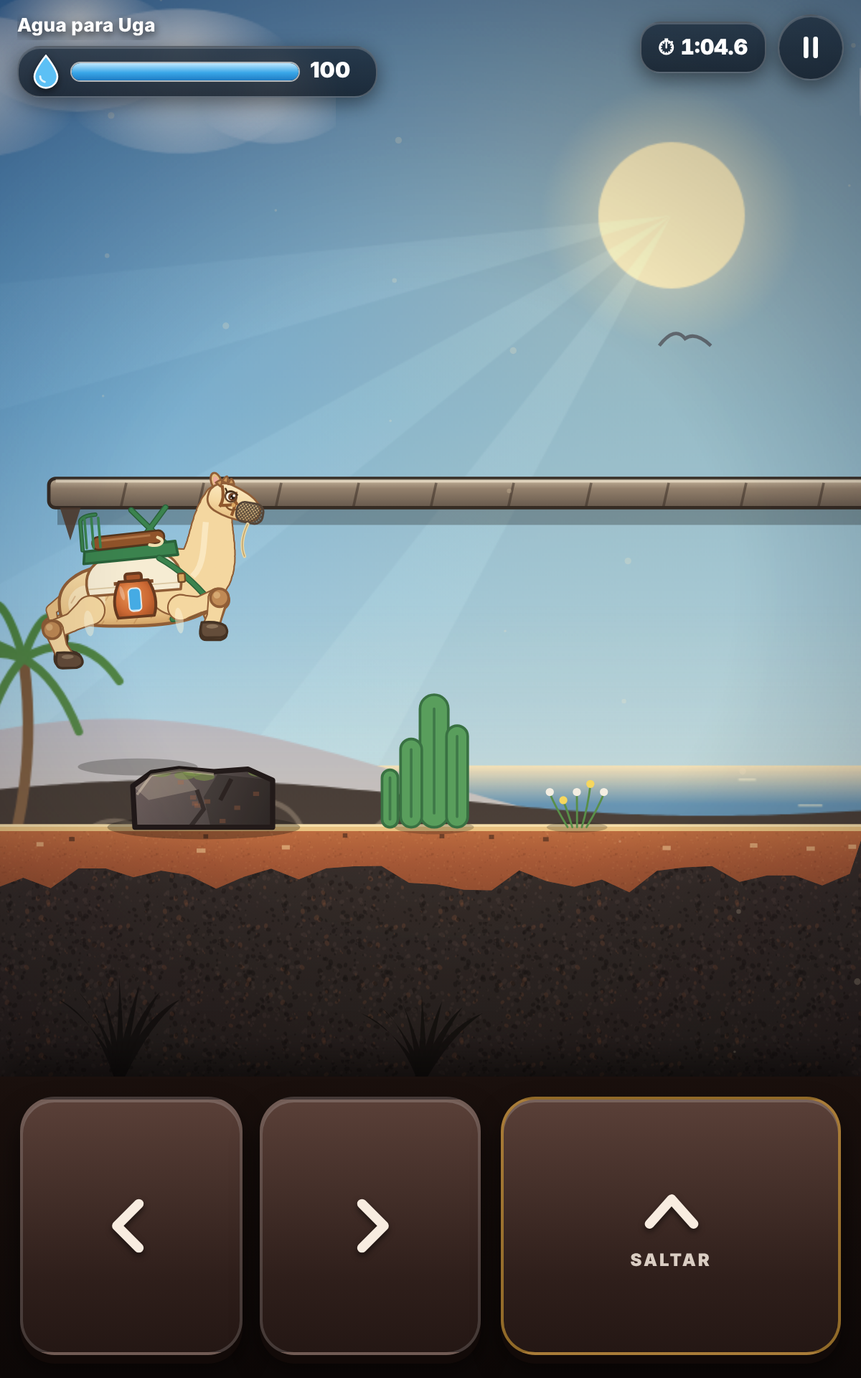
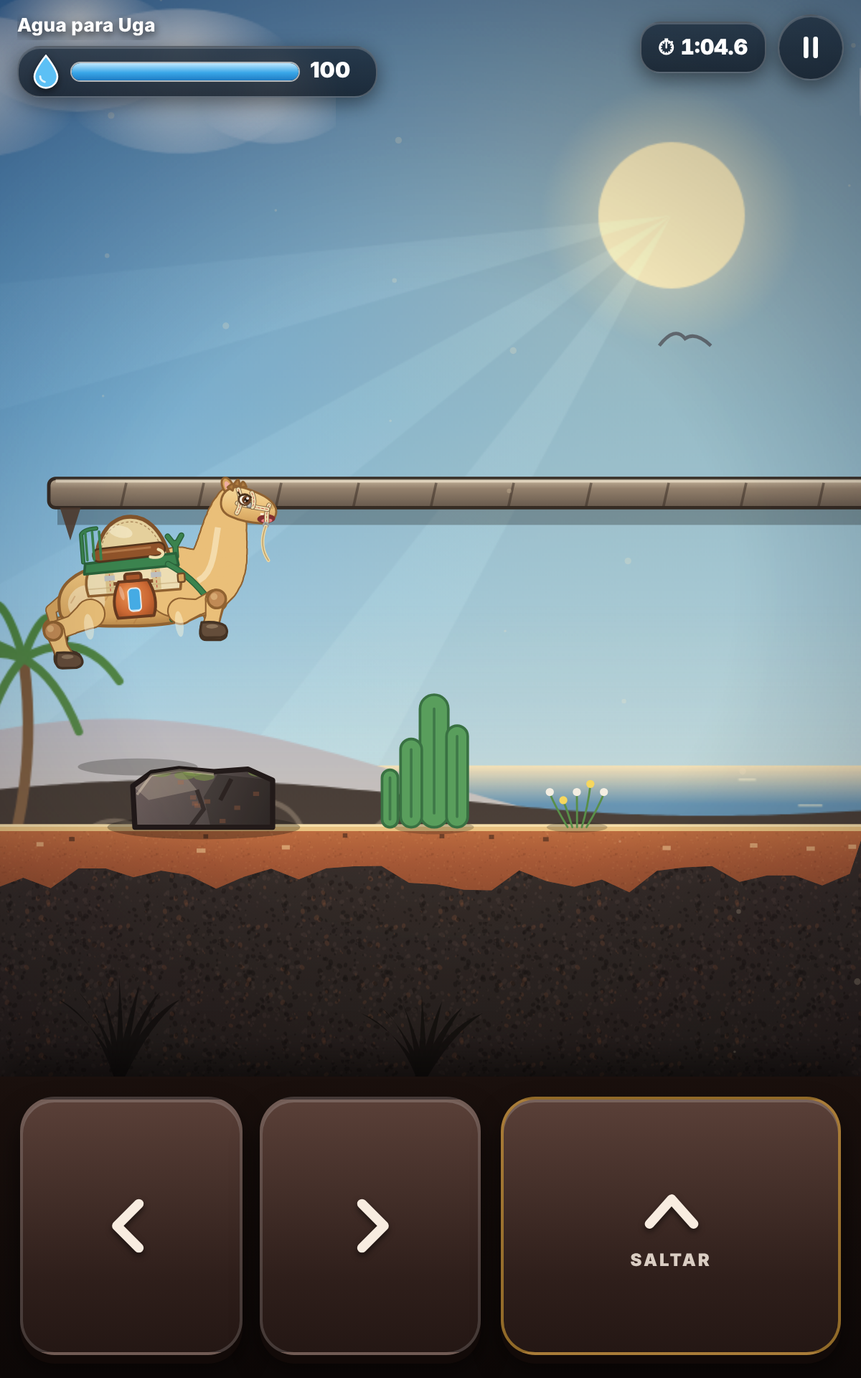
1.7.1: Martín más cercano a la ilustración final (pelaje dorado, cabezada de lona con costuras, boca abierta, funda de lona en la joroba, correas de lona, joroba visible y cuello grueso)
Claude-Session: https://claude.ai/code/session_01H2Jf8v1MHtV6zTpVoU4WWj

Changed region(s): [[0.0308, 0.3438, 0.3392, 0.4688]]

diff --git a/docs/app/dibujo.js b/docs/app/dibujo.js
@@ -87,7 +87,7 @@
   function suelo(L, x, y) { let best = L.world.kill_y; for (const s of L.solids) if (s.kind !== 'oneway' && s.x0 <= x && s.x1 >= x && s.top <= y + 0.05 && s.top > best) best = s.top; return best; }
 
   /* ================== MARTÍN ================== */
-  const PEL = { luz: '#fcebc4', claro: '#f4d6a0', medio: '#e6bd80', sombra: '#c99358', osc: '#8a5a2c', borde: '#8a5630', hocico: '#f8e3b8' };
+  const PEL = { luz: '#f6d99c', claro: '#e9bd76', medio: '#d3a05a', sombra: '#a8743a', osc: '#7a4a24', borde: '#8a5a2a', hocico: '#f2d9a6' };
 
   /* Trazo cónico (muslo, caña, cuello): primero el contorno, luego el relleno, para que no se vean costuras */
   function conico(ctx, pts, ws, fill, borde, lw) {
@@ -105,7 +105,7 @@
 
   /* Pata de dibujo animado: muslo grueso, rodilla redonda de callo marrón, caña y pezuña grande oscura. sg = lado en que dobla la rodilla */
   function pata(ctx, hx, hy, fx, fy, sg, cerca, anchoMuslo) {
-    const a = 0.46, b = 0.44, dx = fx - hx, dy = fy - hy, dd = Math.hypot(dx, dy) || 1, d = Math.min(dd, a + b - 0.004);
+    const a = 0.44, b = 0.42, dx = fx - hx, dy = fy - hy, dd = Math.hypot(dx, dy) || 1, d = Math.min(dd, a + b - 0.004);
     const ux = dx / dd, uy = dy / dd, p = (d * d + a * a - b * b) / (2 * d), h = Math.sqrt(Math.max(0, a * a - p * p));
     const kx = hx + ux * p - uy * h * sg, ky = hy + uy * p + ux * h * sg, ex = hx + ux * d, ey = hy + uy * d;
     const col = cerca ? PEL.claro : PEL.medio;
@@ -136,15 +136,20 @@
     ctx.bezierCurveTo(-0.2, -0.16, -0.24, -0.08, -0.24, 0.0); ctx.closePath(); ctx.fill(); ctx.stroke();
     // mechones de pelo sobre la frente
     ctx.fillStyle = PEL.sombra; for (const [x, y, l, a] of [[-0.12, 0.2, 0.15, -0.5], [-0.03, 0.25, 0.17, -0.2], [0.07, 0.24, 0.14, 0.15]]) { ctx.save(); ctx.translate(x, y); ctx.rotate(a); ctx.beginPath(); ctx.moveTo(-0.045, 0); ctx.quadraticCurveTo(0, l * 1.1, 0.045, 0); ctx.closePath(); ctx.fill(); ctx.stroke(); ctx.restore(); }
-    // bozal de malla
-    ctx.save(); rr(ctx, 0.22, -0.28, 0.4, 0.3, 0.12); ctx.fillStyle = 'rgba(110,80,50,.35)'; ctx.fill(); ctx.clip();
-    ctx.strokeStyle = 'rgba(70,55,45,.9)'; ctx.lineWidth = 0.014; ctx.beginPath(); for (let k = -5; k <= 7; k++) { ctx.moveTo(0.22 + k * 0.05, -0.3); ctx.lineTo(0.22 + k * 0.05 + 0.3, 0.04); ctx.moveTo(0.22 + k * 0.05 + 0.3, -0.3); ctx.lineTo(0.22 + k * 0.05, 0.04); } ctx.stroke(); ctx.restore();
-    ctx.strokeStyle = '#4a3a30'; ctx.lineWidth = 0.028; rr(ctx, 0.22, -0.28, 0.4, 0.3, 0.12); ctx.stroke();
-    // correas de cuero con anilla
-    ctx.strokeStyle = cuero; ctx.lineWidth = 0.045; ctx.beginPath(); ctx.moveTo(0.22, -0.02); ctx.quadraticCurveTo(0.12, -0.08, -0.04, -0.1); ctx.moveTo(0.16, 0.14); ctx.quadraticCurveTo(0.2, -0.05, 0.16, -0.22); ctx.moveTo(-0.06, 0.2); ctx.quadraticCurveTo(0.02, 0.0, -0.04, -0.12); ctx.stroke();
-    ctx.fillStyle = '#d9a35c'; ctx.beginPath(); ctx.arc(0.16, -0.06, 0.03, 0, TAU); ctx.fill();
+    // boca abierta y sonriente con la lengua rosa
+    ctx.fillStyle = '#7a2428'; ctx.beginPath(); ctx.ellipse(0.43, -0.2, 0.13, 0.065, 0.12, 0, TAU); ctx.fill(); ctx.fillStyle = '#e8737c'; ctx.beginPath(); ctx.ellipse(0.44, -0.225, 0.08, 0.03, 0.1, 0, TAU); ctx.fill();
+    ctx.fillStyle = '#fff3dc'; ctx.fillRect(0.34, -0.15, 0.05, 0.03); ctx.fillRect(0.4, -0.145, 0.05, 0.03);
+    ctx.fillStyle = 'rgba(140,90,40,.25)'; ctx.beginPath(); ctx.ellipse(0.5, -0.02, 0.025, 0.035, 0.4, 0, TAU); ctx.fill();   // ollar
+    // cabezada de lona beige con costuras rojas y hebillas
+    const lona = (pts) => { ctx.lineCap = 'round'; ctx.strokeStyle = '#7a5a3a'; ctx.lineWidth = 0.075; ctx.beginPath(); pts(); ctx.stroke(); ctx.strokeStyle = '#ecdcb0'; ctx.lineWidth = 0.056; ctx.beginPath(); pts(); ctx.stroke(); ctx.strokeStyle = '#c0453a'; ctx.lineWidth = 0.01; ctx.setLineDash([0.03, 0.025]); ctx.beginPath(); pts(); ctx.stroke(); ctx.setLineDash([]); };
+    lona(() => { ctx.moveTo(0.46, 0.0); ctx.quadraticCurveTo(0.42, -0.1, 0.44, -0.24); });                 // frontalera del hocico
+    lona(() => { ctx.moveTo(0.44, -0.06); ctx.quadraticCurveTo(0.2, -0.04, 0.0, 0.0); });               // carrillera
+    lona(() => { ctx.moveTo(0.0, 0.2); ctx.quadraticCurveTo(0.08, 0.02, 0.0, -0.14); });              // testera
+    lona(() => { ctx.moveTo(0.2, 0.16); ctx.quadraticCurveTo(0.26, 0.04, 0.22, -0.04); });
+    ctx.fillStyle = '#b9bcc0'; ctx.strokeStyle = '#555'; ctx.lineWidth = 0.012; rr(ctx, 0.14, -0.05, 0.06, 0.07, 0.01); ctx.fill(); ctx.stroke();
+    ctx.strokeStyle = '#9a9ea2'; ctx.lineWidth = 0.025; ctx.beginPath(); ctx.arc(0.43, -0.29, 0.035, 0, TAU); ctx.stroke();
     // cuerda que cuelga del bozal
-    const rs = Math.sin(T * 2.3) * 0.03; ctx.strokeStyle = '#ead6a4'; ctx.lineWidth = 0.05; ctx.lineCap = 'round'; ctx.beginPath(); ctx.moveTo(0.42, -0.3); ctx.quadraticCurveTo(0.34 + rs, -0.6, 0.46 + rs * 2, -0.78); ctx.stroke(); ctx.strokeStyle = '#b89a62'; ctx.lineWidth = 0.014; ctx.stroke();
+    const rs = Math.sin(T * 2.3) * 0.03; ctx.strokeStyle = '#ead6a4'; ctx.lineWidth = 0.05; ctx.lineCap = 'round'; ctx.beginPath(); ctx.moveTo(0.43, -0.31); ctx.quadraticCurveTo(0.34 + rs, -0.6, 0.5 + rs * 2, -0.8); ctx.stroke(); ctx.strokeStyle = '#b89a62'; ctx.lineWidth = 0.014; ctx.stroke();
     // ojo grande y expresivo
     const parp = (Math.sin(T * 0.9) > 0.985) || st.golpe > 0 || st.anim === 'cae';
     if (parp) { ctx.strokeStyle = '#3a2412'; ctx.lineWidth = 0.035; ctx.beginPath(); ctx.arc(0.1, 0.06, 0.06, Math.PI * 1.1, Math.PI * 1.9); ctx.stroke(); }
@@ -154,8 +159,7 @@
       ctx.fillStyle = '#fff'; ctx.beginPath(); ctx.arc(0.142, 0.08, 0.02, 0, TAU); ctx.arc(0.108, 0.035, 0.01, 0, TAU); ctx.fill();
       ctx.strokeStyle = '#3a2412'; ctx.lineWidth = 0.025; ctx.beginPath(); ctx.moveTo(0.02, 0.1); ctx.quadraticCurveTo(0.1, 0.16, 0.19, 0.1); ctx.moveTo(0.03, 0.12); ctx.lineTo(0.0, 0.16); ctx.stroke();
     }
-    // sonrisa
-    ctx.strokeStyle = '#7a4a24'; ctx.lineWidth = 0.025; ctx.beginPath(); ctx.moveTo(0.2, -0.12); ctx.quadraticCurveTo(0.12, -0.16, 0.06, -0.1); ctx.stroke();
+
   }
 
   function dibujaMartin(ctx, u, px, py, st) {
@@ -168,7 +172,7 @@
     const sq = st.golpe > 0 ? 1 - st.golpe * 0.12 : 1, f = clamp(st.agua / 100, 0, 1);
     const cabeceo = anim === 'salta' ? 0.08 : anim === 'cae' ? -0.08 : 0;
     ctx.translate(0, hop); ctx.scale(1 + (1 - sq) * 0.6, sq);
-    const hipY = 0.88 + bob;
+    const hipY = 0.84 + bob;
     const objetivo = (hx, fase, delante) => {
       if (anim === 'salta') return delante ? [hx + 0.34, 0.6] : [hx - 0.3, 0.3];
       if (anim === 'cae') return delante ? [hx + 0.2, 0.12] : [hx - 0.22, 0.1];
@@ -187,8 +191,8 @@
     // cuerpo redondeado
     ctx.beginPath(); ctx.moveTo(-0.9, 1.05 + B);
     ctx.bezierCurveTo(-0.9, 1.3 + B, -0.65, 1.42 + B, -0.4, 1.46 + B);
-    ctx.bezierCurveTo(-0.3, 1.66 + B, -0.1, 1.74 + B, 0.1, 1.7 + B);
-    ctx.bezierCurveTo(0.3, 1.66 + B, 0.36, 1.5 + B, 0.46, 1.46 + B);
+    ctx.bezierCurveTo(-0.44, 1.6 + B, -0.36, 1.94 + B, -0.08, 2.0 + B);
+    ctx.bezierCurveTo(0.2, 2.04 + B, 0.36, 1.8 + B, 0.42, 1.52 + B);
     ctx.bezierCurveTo(0.68, 1.42 + B, 0.92, 1.2 + B, 0.9, 0.98 + B);
     ctx.bezierCurveTo(0.88, 0.76 + B, 0.4, 0.7 + B, -0.1, 0.74 + B);
     ctx.bezierCurveTo(-0.5, 0.76 + B, -0.64, 0.8 + B, -0.76, 0.84 + B);
@@ -206,27 +210,32 @@
     for (let i = 0; i < 5; i++) { const x = 0.8 + (i % 2) * 0.03, y = 1.1 - i * 0.07 + B; ctx.beginPath(); ctx.moveTo(x, y); ctx.quadraticCurveTo(x + 0.15, y - 0.12 + Math.sin(T * 2 + i) * 0.01, x + 0.02, y - 0.2); ctx.lineTo(x - 0.04, y - 0.02); ctx.closePath(); ctx.fill(); ctx.stroke(); }
     // cuello alto y grueso en S
     const sway = Math.sin(ph * 0.5) * (corre ? 0.04 : 0.01) + Math.sin(T * 1.7) * 0.012, tip = anim === 'salta' ? 0.06 : anim === 'cae' ? -0.1 : 0;
-    const N = [[0.5, 1.2 + B], [1.02, 1.16 + B], [0.84, 1.78 + B], [1.04, 2.06 + B + tip]];
+    const N = [[0.5, 1.2 + B], [1.14, 1.04 + B], [0.96, 1.7 + B], [1.2, 2.0 + B + tip]];
     const cub = q => { const m = 1 - q; return [m * m * m * N[0][0] + 3 * m * m * q * N[1][0] + 3 * m * q * q * N[2][0] + q * q * q * N[3][0], m * m * m * N[0][1] + 3 * m * m * q * N[1][1] + 3 * m * q * q * N[2][1] + q * q * q * N[3][1]]; };
-    const pts = [], ws = []; for (let i = 0; i <= 14; i++) { const q = i / 14; pts.push(cub(q)); ws.push(0.76 - q * 0.44 + Math.sin(q * Math.PI) * 0.03); }
+    const pts = [], ws = []; for (let i = 0; i <= 14; i++) { const q = i / 14; pts.push(cub(q)); ws.push(0.8 - q * 0.42 + Math.sin(q * Math.PI) * 0.03); }
     conico(ctx, pts, ws, PEL.claro, PEL.borde, 0.035);
     ctx.strokeStyle = 'rgba(255,248,225,.5)'; ctx.lineWidth = 0.07; ctx.beginPath(); for (let i = 3; i <= 11; i++) { const [x, y] = pts[i]; i === 3 ? ctx.moveTo(x - 0.08, y) : ctx.lineTo(x - 0.08, y); } ctx.stroke();
     // cabeza
-    ctx.save(); ctx.translate(pts[14][0] + 0.06, pts[14][1] + 0.0); ctx.rotate(-0.22 - tip * 0.8 + sway); ctx.scale(0.78, 0.78); cabeza(ctx, T, st); ctx.restore();
+    ctx.save(); ctx.translate(pts[14][0] + 0.06, pts[14][1] + 0.0); ctx.rotate(-0.1 - tip * 0.8 + sway); ctx.scale(0.8, 0.8); cabeza(ctx, T, st); ctx.restore();
+    ctx.beginPath(); ctx.moveTo(-0.42, 1.5 + B); ctx.bezierCurveTo(-0.44, 1.6 + B, -0.36, 1.94 + B, -0.08, 2.0 + B); ctx.bezierCurveTo(0.2, 2.04 + B, 0.36, 1.8 + B, 0.42, 1.52 + B); ctx.closePath();
+    ctx.fillStyle = '#e4cf9c'; ctx.fill(); ctx.strokeStyle = '#7a4a24'; ctx.lineWidth = 0.045; ctx.stroke();
+    ctx.strokeStyle = 'rgba(122,74,36,.55)'; ctx.lineWidth = 0.012; ctx.setLineDash([0.03, 0.025]); ctx.beginPath(); ctx.moveTo(-0.36, 1.56 + B); ctx.bezierCurveTo(-0.38, 1.7 + B, -0.3, 1.9 + B, -0.08, 1.94 + B); ctx.bezierCurveTo(0.16, 1.98 + B, 0.3, 1.78 + B, 0.36, 1.56 + B); ctx.stroke(); ctx.setLineDash([]);
+    ctx.fillStyle = 'rgba(255,250,230,.45)'; ctx.beginPath(); ctx.ellipse(-0.12, 1.84 + B, 0.14, 0.07, -0.3, 0, TAU); ctx.fill();
     // manta crema y silla verde: asiento de cuero, barandilla con barrotes y caballete en aspa
     const verde = '#2f7d49', verdeO = '#1d5a33', cuero = '#8a4a22';
     ctx.beginPath(); ctx.moveTo(-0.55, 1.12 + B); ctx.quadraticCurveTo(-0.62, 1.4 + B, -0.4, 1.52 + B); ctx.lineTo(0.4, 1.52 + B); ctx.quadraticCurveTo(0.58, 1.4 + B, 0.52, 1.12 + B); ctx.closePath();
-    ctx.fillStyle = '#f6ecd6'; ctx.fill(); ctx.strokeStyle = PEL.borde; ctx.lineWidth = 0.03; ctx.stroke();
+    ctx.fillStyle = '#ecdcb4'; ctx.fill(); ctx.strokeStyle = PEL.borde; ctx.lineWidth = 0.03; ctx.stroke();
+    for (const x of [-0.34, 0.2]) { ctx.fillStyle = '#d7c08a'; ctx.fillRect(x, 1.14 + B, 0.1, 0.38); ctx.strokeStyle = '#c0453a'; ctx.lineWidth = 0.01; ctx.setLineDash([0.03, 0.025]); ctx.beginPath(); ctx.moveTo(x + 0.05, 1.16 + B); ctx.lineTo(x + 0.05, 1.5 + B); ctx.stroke(); ctx.setLineDash([]); ctx.fillStyle = '#b9bcc0'; ctx.fillRect(x - 0.01, 1.28 + B, 0.12, 0.06); }
     ctx.strokeStyle = 'rgba(190,160,110,.5)'; ctx.lineWidth = 0.014; ctx.beginPath(); ctx.moveTo(-0.55, 1.2 + B); ctx.lineTo(0.52, 1.2 + B); ctx.stroke();
     // caballete en aspa (delante) y barandilla (detrás)
-    ctx.lineCap = 'round'; for (const [c, w] of [[verdeO, 0.07], [verde, 0.045]]) { ctx.strokeStyle = c; ctx.lineWidth = w; ctx.beginPath(); ctx.moveTo(0.02, 1.62 + B); ctx.lineTo(0.42, 2.08 + B); ctx.moveTo(0.42, 1.62 + B); ctx.lineTo(0.02, 2.08 + B); ctx.stroke(); }
-    ctx.fillStyle = verde; ctx.strokeStyle = verdeO; ctx.lineWidth = 0.03; ctx.beginPath(); ctx.moveTo(-0.58, 1.5 + B); ctx.lineTo(-0.56, 1.64 + B); ctx.lineTo(0.5, 1.68 + B); ctx.lineTo(0.52, 1.52 + B); ctx.closePath(); ctx.fill(); ctx.stroke();
-    ctx.save(); ctx.translate(-0.04, 1.66 + B); ctx.rotate(0.03); ctx.fillStyle = cuero; rr(ctx, -0.42, 0, 0.84, 0.15, 0.07); ctx.fill(); ctx.strokeStyle = '#4a2a14'; ctx.lineWidth = 0.022; ctx.stroke(); ctx.fillStyle = 'rgba(255,200,140,.3)'; ctx.fillRect(-0.34, 0.09, 0.6, 0.025); ctx.restore();
-    ctx.strokeStyle = verdeO; ctx.lineWidth = 0.05; ctx.beginPath(); ctx.moveTo(-0.58, 1.66 + B); ctx.lineTo(-0.58, 2.0 + B); ctx.quadraticCurveTo(-0.55, 2.06 + B, -0.4, 2.06 + B); ctx.stroke(); ctx.strokeStyle = verde; ctx.lineWidth = 0.028; ctx.stroke();
-    ctx.strokeStyle = verde; ctx.lineWidth = 0.03; for (const x of [-0.53, -0.45, -0.37]) { ctx.beginPath(); ctx.moveTo(x, 1.68 + B); ctx.lineTo(x, 2.02 + B); ctx.stroke(); }
-    ctx.strokeStyle = '#f0e0b0'; ctx.lineWidth = 0.035; ctx.beginPath(); ctx.moveTo(0.2, 1.66 + B); ctx.bezierCurveTo(0.34, 1.62 + B, 0.4, 1.7 + B, 0.3, 1.74 + B); ctx.stroke();   // cuerda del caballete
+    ctx.lineCap = 'round'; for (const [c, w] of [[verdeO, 0.07], [verde, 0.045]]) { ctx.strokeStyle = c; ctx.lineWidth = w; ctx.beginPath(); ctx.moveTo(0.5, 1.5 + B); ctx.lineTo(0.5, 1.66 + B); ctx.moveTo(0.5, 1.62 + B); ctx.lineTo(0.58, 1.74 + B); ctx.moveTo(0.5, 1.62 + B); ctx.lineTo(0.42, 1.74 + B); ctx.stroke(); }
+    ctx.fillStyle = verde; ctx.strokeStyle = verdeO; ctx.lineWidth = 0.03; ctx.beginPath(); ctx.moveTo(-0.58, 1.38 + B); ctx.lineTo(-0.56, 1.5 + B); ctx.lineTo(0.5, 1.54 + B); ctx.lineTo(0.52, 1.4 + B); ctx.closePath(); ctx.fill(); ctx.stroke();
+    ctx.save(); ctx.translate(-0.04, 1.52 + B); ctx.rotate(0.03); ctx.fillStyle = cuero; rr(ctx, -0.42, 0, 0.84, 0.15, 0.07); ctx.fill(); ctx.strokeStyle = '#4a2a14'; ctx.lineWidth = 0.022; ctx.stroke(); ctx.fillStyle = 'rgba(255,200,140,.3)'; ctx.fillRect(-0.34, 0.09, 0.6, 0.025); ctx.restore();
+    ctx.strokeStyle = verdeO; ctx.lineWidth = 0.05; ctx.beginPath(); ctx.moveTo(-0.58, 1.52 + B); ctx.lineTo(-0.58, 1.84 + B); ctx.quadraticCurveTo(-0.55, 1.9 + B, -0.4, 1.9 + B); ctx.stroke(); ctx.strokeStyle = verde; ctx.lineWidth = 0.028; ctx.stroke();
+    ctx.strokeStyle = verde; ctx.lineWidth = 0.03; for (const x of [-0.53, -0.45, -0.37]) { ctx.beginPath(); ctx.moveTo(x, 1.54 + B); ctx.lineTo(x, 1.86 + B); ctx.stroke(); }
+    ctx.strokeStyle = '#f0e0b0'; ctx.lineWidth = 0.035; ctx.beginPath(); ctx.moveTo(0.2, 1.52 + B); ctx.bezierCurveTo(0.34, 1.48 + B, 0.4, 1.56 + B, 0.3, 1.6 + B); ctx.stroke();   // cuerda del caballete
     // correa verde de pecho con hebilla
-    ctx.strokeStyle = verdeO; ctx.lineWidth = 0.075; ctx.beginPath(); ctx.moveTo(0.3, 1.5 + B); ctx.quadraticCurveTo(0.6, 1.3 + B, 0.84, 0.96 + B); ctx.quadraticCurveTo(0.7, 0.8 + B, 0.4, 0.78 + B); ctx.stroke(); ctx.strokeStyle = verde; ctx.lineWidth = 0.05; ctx.stroke();
+    ctx.strokeStyle = verdeO; ctx.lineWidth = 0.075; ctx.beginPath(); ctx.moveTo(0.4, 1.42 + B); ctx.quadraticCurveTo(0.66, 1.26 + B, 0.84, 0.96 + B); ctx.quadraticCurveTo(0.7, 0.8 + B, 0.4, 0.78 + B); ctx.stroke(); ctx.strokeStyle = verde; ctx.lineWidth = 0.05; ctx.stroke();
     ctx.fillStyle = '#d9a35c'; ctx.strokeStyle = '#6a4220'; ctx.lineWidth = 0.02; rr(ctx, 0.5, 1.2 + B, 0.08, 0.1, 0.02); ctx.fill(); ctx.stroke();
     ctx.restore();
     // patas cercanas

diff --git a/www/dibujo.js b/www/dibujo.js
@@ -87,7 +87,7 @@
   function suelo(L, x, y) { let best = L.world.kill_y; for (const s of L.solids) if (s.kind !== 'oneway' && s.x0 <= x && s.x1 >= x && s.top <= y + 0.05 && s.top > best) best = s.top; return best; }
 
   /* ================== MARTÍN ================== */
-  const PEL = { luz: '#fcebc4', claro: '#f4d6a0', medio: '#e6bd80', sombra: '#c99358', osc: '#8a5a2c', borde: '#8a5630', hocico: '#f8e3b8' };
+  const PEL = { luz: '#f6d99c', claro: '#e9bd76', medio: '#d3a05a', sombra: '#a8743a', osc: '#7a4a24', borde: '#8a5a2a', hocico: '#f2d9a6' };
 
   /* Trazo cónico (muslo, caña, cuello): primero el contorno, luego el relleno, para que no se vean costuras */
   function conico(ctx, pts, ws, fill, borde, lw) {
@@ -105,7 +105,7 @@
 
   /* Pata de dibujo animado: muslo grueso, rodilla redonda de callo marrón, caña y pezuña grande oscura. sg = lado en que dobla la rodilla */
   function pata(ctx, hx, hy, fx, fy, sg, cerca, anchoMuslo) {
-    const a = 0.46, b = 0.44, dx = fx - hx, dy = fy - hy, dd = Math.hypot(dx, dy) || 1, d = Math.min(dd, a + b - 0.004);
+    const a = 0.44, b = 0.42, dx = fx - hx, dy = fy - hy, dd = Math.hypot(dx, dy) || 1, d = Math.min(dd, a + b - 0.004);
     const ux = dx / dd, uy = dy / dd, p = (d * d + a * a - b * b) / (2 * d), h = Math.sqrt(Math.max(0, a * a - p * p));
     const kx = hx + ux * p - uy * h * sg, ky = hy + uy * p + ux * h * sg, ex = hx + ux * d, ey = hy + uy * d;
     const col = cerca ? PEL.claro : PEL.medio;
@@ -136,15 +136,20 @@
     ctx.bezierCurveTo(-0.2, -0.16, -0.24, -0.08, -0.24, 0.0); ctx.closePath(); ctx.fill(); ctx.stroke();
     // mechones de pelo sobre la frente
     ctx.fillStyle = PEL.sombra; for (const [x, y, l, a] of [[-0.12, 0.2, 0.15, -0.5], [-0.03, 0.25, 0.17, -0.2], [0.07, 0.24, 0.14, 0.15]]) { ctx.save(); ctx.translate(x, y); ctx.rotate(a); ctx.beginPath(); ctx.moveTo(-0.045, 0); ctx.quadraticCurveTo(0, l * 1.1, 0.045, 0); ctx.closePath(); ctx.fill(); ctx.stroke(); ctx.restore(); }
-    // bozal de malla
-    ctx.save(); rr(ctx, 0.22, -0.28, 0.4, 0.3, 0.12); ctx.fillStyle = 'rgba(110,80,50,.35)'; ctx.fill(); ctx.clip();
-    ctx.strokeStyle = 'rgba(70,55,45,.9)'; ctx.lineWidth = 0.014; ctx.beginPath(); for (let k = -5; k <= 7; k++) { ctx.moveTo(0.22 + k * 0.05, -0.3); ctx.lineTo(0.22 + k * 0.05 + 0.3, 0.04); ctx.moveTo(0.22 + k * 0.05 + 0.3, -0.3); ctx.lineTo(0.22 + k * 0.05, 0.04); } ctx.stroke(); ctx.restore();
-    ctx.strokeStyle = '#4a3a30'; ctx.lineWidth = 0.028; rr(ctx, 0.22, -0.28, 0.4, 0.3, 0.12); ctx.stroke();
-    // correas de cuero con anilla
-    ctx.strokeStyle = cuero; ctx.lineWidth = 0.045; ctx.beginPath(); ctx.moveTo(0.22, -0.02); ctx.quadraticCurveTo(0.12, -0.08, -0.04, -0.1); ctx.moveTo(0.16, 0.14); ctx.quadraticCurveTo(0.2, -0.05, 0.16, -0.22); ctx.moveTo(-0.06, 0.2); ctx.quadraticCurveTo(0.02, 0.0, -0.04, -0.12); ctx.stroke();
-    ctx.fillStyle = '#d9a35c'; ctx.beginPath(); ctx.arc(0.16, -0.06, 0.03, 0, TAU); ctx.fill();
+    // boca abierta y sonriente con la lengua rosa
+    ctx.fillStyle = '#7a2428'; ctx.beginPath(); ctx.ellipse(0.43, -0.2, 0.13, 0.065, 0.12, 0, TAU); ctx.fill(); ctx.fillStyle = '#e8737c'; ctx.beginPath(); ctx.ellipse(0.44, -0.225, 0.08, 0.03, 0.1, 0, TAU); ctx.fill();
+    ctx.fillStyle = '#fff3dc'; ctx.fillRect(0.34, -0.15, 0.05, 0.03); ctx.fillRect(0.4, -0.145, 0.05, 0.03);
+    ctx.fillStyle = 'rgba(140,90,40,.25)'; ctx.beginPath(); ctx.ellipse(0.5, -0.02, 0.025, 0.035, 0.4, 0, TAU); ctx.fill();   // ollar
+    // cabezada de lona beige con costuras rojas y hebillas
+    const lona = (pts) => { ctx.lineCap = 'round'; ctx.strokeStyle = '#7a5a3a'; ctx.lineWidth = 0.075; ctx.beginPath(); pts(); ctx.stroke(); ctx.strokeStyle = '#ecdcb0'; ctx.lineWidth = 0.056; ctx.beginPath(); pts(); ctx.stroke(); ctx.strokeStyle = '#c0453a'; ctx.lineWidth = 0.01; ctx.setLineDash([0.03, 0.025]); ctx.beginPath(); pts(); ctx.stroke(); ctx.setLineDash([]); };
+    lona(() => { ctx.moveTo(0.46, 0.0); ctx.quadraticCurveTo(0.42, -0.1, 0.44, -0.24); });                 // frontalera del hocico
+    lona(() => { ctx.moveTo(0.44, -0.06); ctx.quadraticCurveTo(0.2, -0.04, 0.0, 0.0); });               // carrillera
+    lona(() => { ctx.moveTo(0.0, 0.2); ctx.quadraticCurveTo(0.08, 0.02, 0.0, -0.14); });              // testera
+    lona(() => { ctx.moveTo(0.2, 0.16); ctx.quadraticCurveTo(0.26, 0.04, 0.22, -0.04); });
+    ctx.fillStyle = '#b9bcc0'; ctx.strokeStyle = '#555'; ctx.lineWidth = 0.012; rr(ctx, 0.14, -0.05, 0.06, 0.07, 0.01); ctx.fill(); ctx.stroke();
+    ctx.strokeStyle = '#9a9ea2'; ctx.lineWidth = 0.025; ctx.beginPath(); ctx.arc(0.43, -0.29, 0.035, 0, TAU); ctx.stroke();
     // cuerda que cuelga del bozal
-    const rs = Math.sin(T * 2.3) * 0.03; ctx.strokeStyle = '#ead6a4'; ctx.lineWidth = 0.05; ctx.lineCap = 'round'; ctx.beginPath(); ctx.moveTo(0.42, -0.3); ctx.quadraticCurveTo(0.34 + rs, -0.6, 0.46 + rs * 2, -0.78); ctx.stroke(); ctx.strokeStyle = '#b89a62'; ctx.lineWidth = 0.014; ctx.stroke();
+    const rs = Math.sin(T * 2.3) * 0.03; ctx.strokeStyle = '#ead6a4'; ctx.lineWidth = 0.05; ctx.lineCap = 'round'; ctx.beginPath(); ctx.moveTo(0.43, -0.31); ctx.quadraticCurveTo(0.34 + rs, -0.6, 0.5 + rs * 2, -0.8); ctx.stroke(); ctx.strokeStyle = '#b89a62'; ctx.lineWidth = 0.014; ctx.stroke();
     // ojo grande y expresivo
     const parp = (Math.sin(T * 0.9) > 0.985) || st.golpe > 0 || st.anim === 'cae';
     if (parp) { ctx.strokeStyle = '#3a2412'; ctx.lineWidth = 0.035; ctx.beginPath(); ctx.arc(0.1, 0.06, 0.06, Math.PI * 1.1, Math.PI * 1.9); ctx.stroke(); }
@@ -154,8 +159,7 @@
       ctx.fillStyle = '#fff'; ctx.beginPath(); ctx.arc(0.142, 0.08, 0.02, 0, TAU); ctx.arc(0.108, 0.035, 0.01, 0, TAU); ctx.fill();
       ctx.strokeStyle = '#3a2412'; ctx.lineWidth = 0.025; ctx.beginPath(); ctx.moveTo(0.02, 0.1); ctx.quadraticCurveTo(0.1, 0.16, 0.19, 0.1); ctx.moveTo(0.03, 0.12); ctx.lineTo(0.0, 0.16); ctx.stroke();
     }
-    // sonrisa
-    ctx.strokeStyle = '#7a4a24'; ctx.lineWidth = 0.025; ctx.beginPath(); ctx.moveTo(0.2, -0.12); ctx.quadraticCurveTo(0.12, -0.16, 0.06, -0.1); ctx.stroke();
+
   }
 
   function dibujaMartin(ctx, u, px, py, st) {
@@ -168,7 +172,7 @@
     const sq = st.golpe > 0 ? 1 - st.golpe * 0.12 : 1, f = clamp(st.agua / 100, 0, 1);
     const cabeceo = anim === 'salta' ? 0.08 : anim === 'cae' ? -0.08 : 0;
     ctx.translate(0, hop); ctx.scale(1 + (1 - sq) * 0.6, sq);
-    const hipY = 0.88 + bob;
+    const hipY = 0.84 + bob;
     const objetivo = (hx, fase, delante) => {
       if (anim === 'salta') return delante ? [hx + 0.34, 0.6] : [hx - 0.3, 0.3];
       if (anim === 'cae') return delante ? [hx + 0.2, 0.12] : [hx - 0.22, 0.1];
@@ -187,8 +191,8 @@
     // cuerpo redondeado
     ctx.beginPath(); ctx.moveTo(-0.9, 1.05 + B);
     ctx.bezierCurveTo(-0.9, 1.3 + B, -0.65, 1.42 + B, -0.4, 1.46 + B);
-    ctx.bezierCurveTo(-0.3, 1.66 + B, -0.1, 1.74 + B, 0.1, 1.7 + B);
-    ctx.bezierCurveTo(0.3, 1.66 + B, 0.36, 1.5 + B, 0.46, 1.46 + B);
+    ctx.bezierCurveTo(-0.44, 1.6 + B, -0.36, 1.94 + B, -0.08, 2.0 + B);
+    ctx.bezierCurveTo(0.2, 2.04 + B, 0.36, 1.8 + B, 0.42, 1.52 + B);
     ctx.bezierCurveTo(0.68, 1.42 + B, 0.92, 1.2 + B, 0.9, 0.98 + B);
     ctx.bezierCurveTo(0.88, 0.76 + B, 0.4, 0.7 + B, -0.1, 0.74 + B);
     ctx.bezierCurveTo(-0.5, 0.76 + B, -0.64, 0.8 + B, -0.76, 0.84 + B);
@@ -206,27 +210,32 @@
     for (let i = 0; i < 5; i++) { const x = 0.8 + (i % 2) * 0.03, y = 1.1 - i * 0.07 + B; ctx.beginPath(); ctx.moveTo(x, y); ctx.quadraticCurveTo(x + 0.15, y - 0.12 + Math.sin(T * 2 + i) * 0.01, x + 0.02, y - 0.2); ctx.lineTo(x - 0.04, y - 0.02); ctx.closePath(); ctx.fill(); ctx.stroke(); }
     // cuello alto y grueso en S
     const sway = Math.sin(ph * 0.5) * (corre ? 0.04 : 0.01) + Math.sin(T * 1.7) * 0.012, tip = anim === 'salta' ? 0.06 : anim === 'cae' ? -0.1 : 0;
-    const N = [[0.5, 1.2 + B], [1.02, 1.16 + B], [0.84, 1.78 + B], [1.04, 2.06 + B + tip]];
+    const N = [[0.5, 1.2 + B], [1.14, 1.04 + B], [0.96, 1.7 + B], [1.2, 2.0 + B + tip]];
     const cub = q => { const m = 1 - q; return [m * m * m * N[0][0] + 3 * m * m * q * N[1][0] + 3 * m * q * q * N[2][0] + q * q * q * N[3][0], m * m * m * N[0][1] + 3 * m * m * q * N[1][1] + 3 * m * q * q * N[2][1] + q * q * q * N[3][1]]; };
-    const pts = [], ws = []; for (let i = 0; i <= 14; i++) { const q = i / 14; pts.push(cub(q)); ws.push(0.76 - q * 0.44 + Math.sin(q * Math.PI) * 0.03); }
+    const pts = [], ws = []; for (let i = 0; i <= 14; i++) { const q = i / 14; pts.push(cub(q)); ws.push(0.8 - q * 0.42 + Math.sin(q * Math.PI) * 0.03); }
     conico(ctx, pts, ws, PEL.claro, PEL.borde, 0.035);
     ctx.strokeStyle = 'rgba(255,248,225,.5)'; ctx.lineWidth = 0.07; ctx.beginPath(); for (let i = 3; i <= 11; i++) { const [x, y] = pts[i]; i === 3 ? ctx.moveTo(x - 0.08, y) : ctx.lineTo(x - 0.08, y); } ctx.stroke();
     // cabeza
-    ctx.save(); ctx.translate(pts[14][0] + 0.06, pts[14][1] + 0.0); ctx.rotate(-0.22 - tip * 0.8 + sway); ctx.scale(0.78, 0.78); cabeza(ctx, T, st); ctx.restore();
+    ctx.save(); ctx.translate(pts[14][0] + 0.06, pts[14][1] + 0.0); ctx.rotate(-0.1 - tip * 0.8 + sway); ctx.scale(0.8, 0.8); cabeza(ctx, T, st); ctx.restore();
+    ctx.beginPath(); ctx.moveTo(-0.42, 1.5 + B); ctx.bezierCurveTo(-0.44, 1.6 + B, -0.36, 1.94 + B, -0.08, 2.0 + B); ctx.bezierCurveTo(0.2, 2.04 + B, 0.36, 1.8 + B, 0.42, 1.52 + B); ctx.closePath();
+    ctx.fillStyle = '#e4cf9c'; ctx.fill(); ctx.strokeStyle = '#7a4a24'; ctx.lineWidth = 0.045; ctx.stroke();
+    ctx.strokeStyle = 'rgba(122,74,36,.55)'; ctx.lineWidth = 0.012; ctx.setLineDash([0.03, 0.025]); ctx.beginPath(); ctx.moveTo(-0.36, 1.56 + B); ctx.bezierCurveTo(-0.38, 1.7 + B, -0.3, 1.9 + B, -0.08, 1.94 + B); ctx.bezierCurveTo(0.16, 1.98 + B, 0.3, 1.78 + B, 0.36, 1.56 + B); ctx.stroke(); ctx.setLineDash([]);
+    ctx.fillStyle = 'rgba(255,250,230,.45)'; ctx.beginPath(); ctx.ellipse(-0.12, 1.84 + B, 0.14, 0.07, -0.3, 0, TAU); ctx.fill();
     // manta crema y silla verde: asiento de cuero, barandilla con barrotes y caballete en aspa
     const verde = '#2f7d49', verdeO = '#1d5a33', cuero = '#8a4a22';
     ctx.beginPath(); ctx.moveTo(-0.55, 1.12 + B); ctx.quadraticCurveTo(-0.62, 1.4 + B, -0.4, 1.52 + B); ctx.lineTo(0.4, 1.52 + B); ctx.quadraticCurveTo(0.58, 1.4 + B, 0.52, 1.12 + B); ctx.closePath();
-    ctx.fillStyle = '#f6ecd6'; ctx.fill(); ctx.strokeStyle = PEL.borde; ctx.lineWidth = 0.03; ctx.stroke();
+    ctx.fillStyle = '#ecdcb4'; ctx.fill(); ctx.strokeStyle = PEL.borde; ctx.lineWidth = 0.03; ctx.stroke();
+    for (const x of [-0.34, 0.2]) { ctx.fillStyle = '#d7c08a'; ctx.fillRect(x, 1.14 + B, 0.1, 0.38); ctx.strokeStyle = '#c0453a'; ctx.lineWidth = 0.01; ctx.setLineDash([0.03, 0.025]); ctx.beginPath(); ctx.moveTo(x + 0.05, 1.16 + B); ctx.lineTo(x + 0.05, 1.5 + B); ctx.stroke(); ctx.setLineDash([]); ctx.fillStyle = '#b9bcc0'; ctx.fillRect(x - 0.01, 1.28 + B, 0.12, 0.06); }
     ctx.strokeStyle = 'rgba(190,160,110,.5)'; ctx.lineWidth = 0.014; ctx.beginPath(); ctx.moveTo(-0.55, 1.2 + B); ctx.lineTo(0.52, 1.2 + B); ctx.stroke();
     // caballete en aspa (delante) y barandilla (detrás)
-    ctx.lineCap = 'round'; for (const [c, w] of [[verdeO, 0.07], [verde, 0.045]]) { ctx.strokeStyle = c; ctx.lineWidth = w; ctx.beginPath(); ctx.moveTo(0.02, 1.62 + B); ctx.lineTo(0.42, 2.08 + B); ctx.moveTo(0.42, 1.62 + B); ctx.lineTo(0.02, 2.08 + B); ctx.stroke(); }
-    ctx.fillStyle = verde; ctx.strokeStyle = verdeO; ctx.lineWidth = 0.03; ctx.beginPath(); ctx.moveTo(-0.58, 1.5 + B); ctx.lineTo(-0.56, 1.64 + B); ctx.lineTo(0.5, 1.68 + B); ctx.lineTo(0.52, 1.52 + B); ctx.closePath(); ctx.fill(); ctx.stroke();
-    ctx.save(); ctx.translate(-0.04, 1.66 + B); ctx.rotate(0.03); ctx.fillStyle = cuero; rr(ctx, -0.42, 0, 0.84, 0.15, 0.07); ctx.fill(); ctx.strokeStyle = '#4a2a14'; ctx.lineWidth = 0.022; ctx.stroke(); ctx.fillStyle = 'rgba(255,200,140,.3)'; ctx.fillRect(-0.34, 0.09, 0.6, 0.025); ctx.restore();
-    ctx.strokeStyle = verdeO; ctx.lineWidth = 0.05; ctx.beginPath(); ctx.moveTo(-0.58, 1.66 + B); ctx.lineTo(-0.58, 2.0 + B); ctx.quadraticCurveTo(-0.55, 2.06 + B, -0.4, 2.06 + B); ctx.stroke(); ctx.strokeStyle = verde; ctx.lineWidth = 0.028; ctx.stroke();
-    ctx.strokeStyle = verde; ctx.lineWidth = 0.03; for (const x of [-0.53, -0.45, -0.37]) { ctx.beginPath(); ctx.moveTo(x, 1.68 + B); ctx.lineTo(x, 2.02 + B); ctx.stroke(); }
-    ctx.strokeStyle = '#f0e0b0'; ctx.lineWidth = 0.035; ctx.beginPath(); ctx.moveTo(0.2, 1.66 + B); ctx.bezierCurveTo(0.34, 1.62 + B, 0.4, 1.7 + B, 0.3, 1.74 + B); ctx.stroke();   // cuerda del caballete
+    ctx.lineCap = 'round'; for (const [c, w] of [[verdeO, 0.07], [verde, 0.045]]) { ctx.strokeStyle = c; ctx.lineWidth = w; ctx.beginPath(); ctx.moveTo(0.5, 1.5 + B); ctx.lineTo(0.5, 1.66 + B); ctx.moveTo(0.5, 1.62 + B); ctx.lineTo(0.58, 1.74 + B); ctx.moveTo(0.5, 1.62 + B); ctx.lineTo(0.42, 1.74 + B); ctx.stroke(); }
+    ctx.fillStyle = verde; ctx.strokeStyle = verdeO; ctx.lineWidth = 0.03; ctx.beginPath(); ctx.moveTo(-0.58, 1.38 + B); ctx.lineTo(-0.56, 1.5 + B); ctx.lineTo(0.5, 1.54 + B); ctx.lineTo(0.52, 1.4 + B); ctx.closePath(); ctx.fill(); ctx.stroke();
+    ctx.save(); ctx.translate(-0.04, 1.52 + B); ctx.rotate(0.03); ctx.fillStyle = cuero; rr(ctx, -0.42, 0, 0.84, 0.15, 0.07); ctx.fill(); ctx.strokeStyle = '#4a2a14'; ctx.lineWidth = 0.022; ctx.stroke(); ctx.fillStyle = 'rgba(255,200,140,.3)'; ctx.fillRect(-0.34, 0.09, 0.6, 0.025); ctx.restore();
+    ctx.strokeStyle = verdeO; ctx.lineWidth = 0.05; ctx.beginPath(); ctx.moveTo(-0.58, 1.52 + B); ctx.lineTo(-0.58, 1.84 + B); ctx.quadraticCurveTo(-0.55, 1.9 + B, -0.4, 1.9 + B); ctx.stroke(); ctx.strokeStyle = verde; ctx.lineWidth = 0.028; ctx.stroke();
+    ctx.strokeStyle = verde; ctx.lineWidth = 0.03; for (const x of [-0.53, -0.45, -0.37]) { ctx.beginPath(); ctx.moveTo(x, 1.54 + B); ctx.lineTo(x, 1.86 + B); ctx.stroke(); }
+    ctx.strokeStyle = '#f0e0b0'; ctx.lineWidth = 0.035; ctx.beginPath(); ctx.moveTo(0.2, 1.52 + B); ctx.bezierCurveTo(0.34, 1.48 + B, 0.4, 1.56 + B, 0.3, 1.6 + B); ctx.stroke();   // cuerda del caballete
     // correa verde de pecho con hebilla
-    ctx.strokeStyle = verdeO; ctx.lineWidth = 0.075; ctx.beginPath(); ctx.moveTo(0.3, 1.5 + B); ctx.quadraticCurveTo(0.6, 1.3 + B, 0.84, 0.96 + B); ctx.quadraticCurveTo(0.7, 0.8 + B, 0.4, 0.78 + B); ctx.stroke(); ctx.strokeStyle = verde; ctx.lineWidth = 0.05; ctx.stroke();
+    ctx.strokeStyle = verdeO; ctx.lineWidth = 0.075; ctx.beginPath(); ctx.moveTo(0.4, 1.42 + B); ctx.quadraticCurveTo(0.66, 1.26 + B, 0.84, 0.96 + B); ctx.quadraticCurveTo(0.7, 0.8 + B, 0.4, 0.78 + B); ctx.stroke(); ctx.strokeStyle = verde; ctx.lineWidth = 0.05; ctx.stroke();
     ctx.fillStyle = '#d9a35c'; ctx.strokeStyle = '#6a4220'; ctx.lineWidth = 0.02; rr(ctx, 0.5, 1.2 + B, 0.08, 0.1, 0.02); ctx.fill(); ctx.stroke();
     ctx.restore();
     // patas cercanas

diff --git a/docs/app/sw.js b/docs/app/sw.js
@@ -1,7 +1,7 @@
 // Service worker: deja la versión web disponible sin conexión.
 // En la app Android no hace falta (los archivos ya van dentro del APK) y podría servir
 // una versión antigua tras actualizar, así que allí se da de baja solo.
-const CACHE = 'martin-v1.7.0';
+const CACHE = 'martin-v1.7.1';
 const ASSETS = ['./', 'index.html', 'martin.js', 'niveles.js', 'juego.js', 'dibujo.js', 'manifest.webmanifest', 'icons/icon-192.png', 'icons/icon-512.png', 'icons/icon-maskable-512.png', 'icons/apple-touch-icon.png', 'i18n-en.js', 'i18n-fr.js', 'i18n-de.js', 'i18n-it.js', 'idioma.js', 'masjuegos.js', 'audio-suave.js', 'turno.js', 'contador.js', 'invitacion.js', 'publicas.js', 'juegos/ajedrez.png', 'juegos/chinchon.png', 'juegos/pumba.png', 'juegos/damas.png', 'juegos/parchis.png', 'juegos/poker.png', 'juegos/uno.png', 'juegos/martin.png'];
 const NATIVE = self.location.hostname === 'localhost' && self.location.protocol === 'https:';
 

diff --git a/www/sw.js b/www/sw.js
@@ -1,7 +1,7 @@
 // Service worker: deja la versión web disponible sin conexión.
 // En la app Android no hace falta (los archivos ya van dentro del APK) y podría servir
 // una versión antigua tras actualizar, así que allí se da de baja solo.
-const CACHE = 'martin-v1.7.0';
+const CACHE = 'martin-v1.7.1';
 const ASSETS = ['./', 'index.html', 'martin.js', 'niveles.js', 'juego.js', 'dibujo.js', 'manifest.webmanifest', 'icons/icon-192.png', 'icons/icon-512.png', 'icons/icon-maskable-512.png', 'icons/apple-touch-icon.png', 'i18n-en.js', 'i18n-fr.js', 'i18n-de.js', 'i18n-it.js', 'idioma.js', 'masjuegos.js', 'audio-suave.js', 'turno.js', 'contador.js', 'invitacion.js', 'publicas.js', 'juegos/ajedrez.png', 'juegos/chinchon.png', 'juegos/pumba.png', 'juegos/damas.png', 'juegos/parchis.png', 'juegos/poker.png', 'juegos/uno.png', 'juegos/martin.png'];
 const NATIVE = self.location.hostname === 'localhost' && self.location.protocol === 'https:';
 

diff --git a/docs/app/index.html b/docs/app/index.html
@@ -406,7 +406,7 @@ function openThemes() {
   AvisoTurno.enlazar();
 }
 
-const APP_VERSION = '1.7.0';
+const APP_VERSION = '1.7.1';
 const REPO = 'csuarezsm/Martin';
 const MAX_ARCHIVE = 500;
 const uid = () => Math.random().toString(36).slice(2, 10);

diff --git a/www/index.html b/www/index.html
@@ -406,7 +406,7 @@ function openThemes() {
   AvisoTurno.enlazar();
 }
 
-const APP_VERSION = '1.7.0';
+const APP_VERSION = '1.7.1';
 const REPO = 'csuarezsm/Martin';
 const MAX_ARCHIVE = 500;
 const uid = () => Math.random().toString(36).slice(2, 10);

diff --git a/README.md b/README.md
@@ -2,7 +2,7 @@
 
 Un camello canario joven de Uga lleva el agua por los caminos que dejó la tormenta: lava, rocas, huecos y bajadas. **6 niveles de plataformas** con tres estrellas cada uno, a veces con dos caminos (uno rápido y arriesgado, otro lento y seguro), y un **reto diario** igual para todos con ranking.
 Para Android e iPhone. Gratis, sin anuncios y sin cuentas. App Capacitor + web (`www/`). Todo se guarda en el móvil; solo el reto diario usa el servidor de juegos (nombre y pulsaciones, para comprobar el tiempo).
-Paquete: `com.itcanarias.martin` · versión 1.7.0
+Paquete: `com.itcanarias.martin` · versión 1.7.1
 
 **iPhone y navegadores**: la misma app se publica como versión web instalable en https://csuarezsm.github.io/Martin/app/ (GitHub Pages, carpeta `docs/app`, copia de `www/`). En Safari: Compartir → «Añadir a pantalla de inicio». Tras cambiar `www/`, ejecuta `npm run web`.
 
